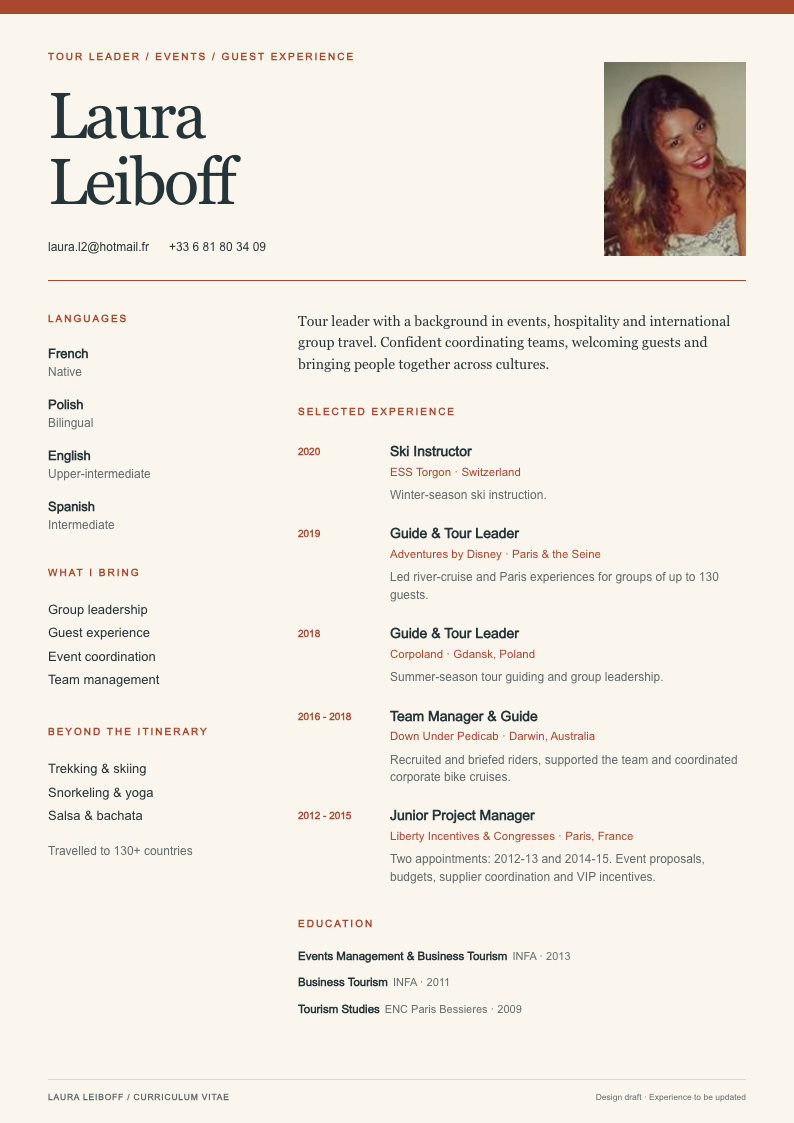
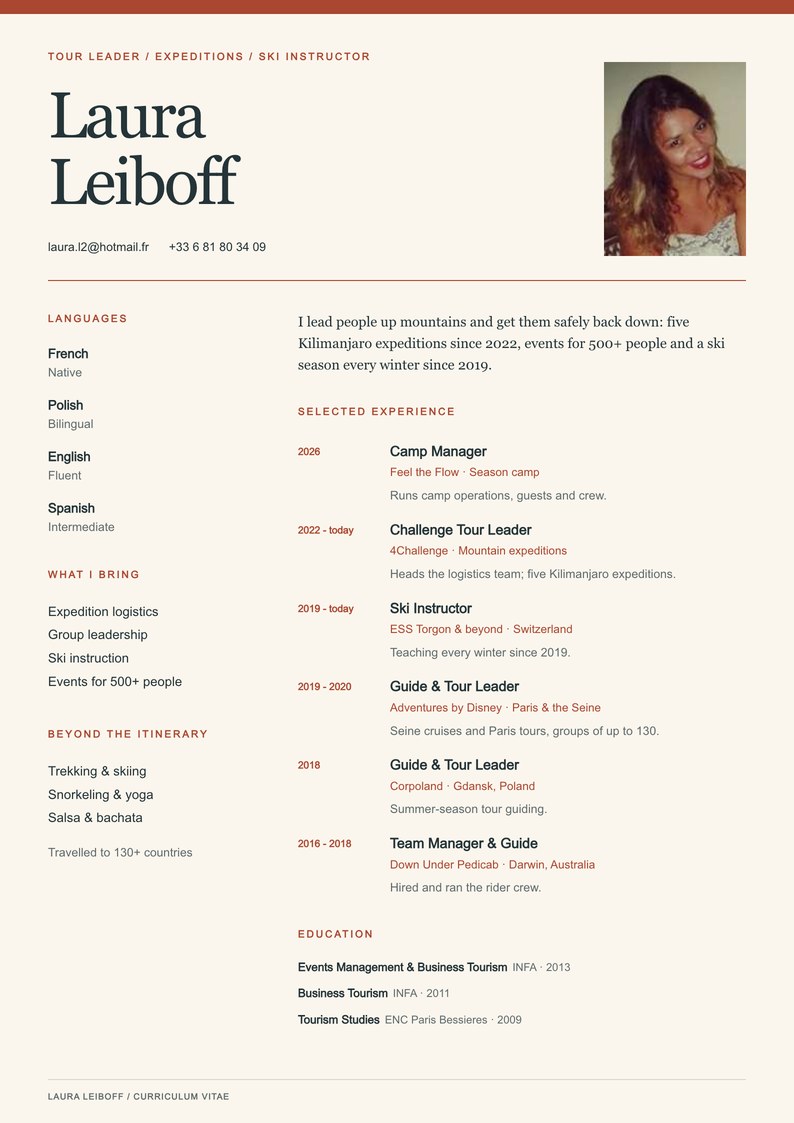
Align CV content across all designs and add print toolbar
Camp manager is now Feel the Flow and ski instruction runs 2019 to today,
in every design. GPT designs pick up the same jobs (4Challenge, Feel the
Flow; pre-2016 roles dropped) with tighter spacing to stay on one A4 page.
Claude designs get the back-link + Print / PDF toolbar. Gallery loses the
Codex/Claude framing and draft notes, and all eight previews are refreshed.

diff --git a/index.html b/index.html
@@ -1,8 +1,8 @@
-<!doctype html><html lang="en"><head><meta charset="utf-8"><meta name="viewport" content="width=device-width,initial-scale=1"><title>Laura / CV design collection</title><style>
+<!doctype html><html lang="en"><head><meta charset="utf-8"><meta name="viewport" content="width=device-width,initial-scale=1"><title>Laura Leiboff / CV designs</title><style>
 *{box-sizing:border-box}body{margin:0;background:#f5f3ef;color:#252e31;font-family:Arial,sans-serif}main{max-width:1220px;margin:auto;padding:55px 40px 60px}.kicker{font-size:11px;letter-spacing:2px;text-transform:uppercase;color:#817163;font-weight:700}header{display:flex;justify-content:space-between;align-items:flex-end;gap:40px;margin:18px 0 42px}h1{font-family:Georgia,serif;font-size:57px;font-weight:400;letter-spacing:-2px;margin:0}header p{max-width:330px;font-size:14px;line-height:1.65;color:#606967;margin:0}.grid{display:grid;grid-template-columns:repeat(2,minmax(0,1fr));gap:38px 28px}.card{text-decoration:none;color:inherit;display:block}.preview{height:490px;overflow:hidden;border-radius:12px;display:flex;align-items:flex-start;justify-content:center;padding-top:25px;background:var(--bg);transition:transform .2s,box-shadow .2s}.preview img{width:322px;box-shadow:0 4px 20px #0002}.card:hover .preview{transform:translateY(-4px);box-shadow:0 12px 30px #3331}.card:focus-visible{outline:3px solid #244ed8;outline-offset:7px}.caption{display:flex;align-items:flex-start;gap:14px;margin-top:19px}.num{font-size:11px;color:#8a8d87;padding-top:5px}h3{font-size:19px;margin:0 0 7px;font-weight:600;letter-spacing:-.4px}.caption p{font-size:12px;color:#727872;margin:0;line-height:1.5}.arrow{margin-left:auto;font-size:23px}.swatches{display:flex;gap:5px;margin-top:12px}.swatches i{width:10px;height:10px;background:var(--c);border-radius:50%}.note{margin-top:46px;padding-top:20px;border-top:1px solid #dedfd7;font-size:12px;line-height:1.8;color:#717871}.note code{font-size:11px;background:#eae8e1;padding:2px 5px;border-radius:3px}@media(max-width:720px){main{padding:32px 20px}header{display:block}h1{font-size:44px}header p{margin-top:20px}.grid{grid-template-columns:1fr}.preview{height:460px}.preview img{width:300px}}
-.section-heading{display:flex;justify-content:space-between;align-items:baseline;gap:16px;margin-bottom:24px}.section-heading h2{font-family:Georgia,serif;font-size:29px;font-weight:400;margin:0;letter-spacing:-.5px}.section-heading span{font-size:12px;color:#727872}.design-section+.design-section{margin-top:64px;padding-top:36px;border-top:1px solid #dedfd7}.jump-links{display:flex;gap:10px;margin:-16px 0 36px}.jump-links a{font-size:12px;color:#39413d;text-decoration:none;border:1px solid #cfcec7;border-radius:20px;padding:9px 15px}.jump-links a:hover{background:#e9e6df}html{scroll-behavior:smooth}.design-section{scroll-margin-top:25px}.claude-preview img{height:456px;width:322px;object-fit:contain;object-position:top;background:white}@media(max-width:720px){.section-heading{display:block}.section-heading span{display:block;margin-top:8px}.claude-preview img{height:424px;width:300px}}@media(prefers-reduced-motion:reduce){html{scroll-behavior:auto}.preview{transition:none}}</style></head><body><main><div class="kicker">Laura Leiboff / CV design exploration</div><header><h1>Find her direction.</h1><p>A little color. A lot of experience.<br>Eight directions from Codex and Claude for a tour leader with a love of people and places. Open a design to see it in full.</p></header><nav class="jump-links" aria-label="Design collections"><a href="#codex">Codex designs</a><a href="#claude">Claude designs</a></nav><section class="design-section" id="codex"><div class="section-heading"><h2>Codex designs</h2><span>01–04 / Editorial, atlas, field notes & studio</span></div><div class="grid">
+.section-heading{display:flex;justify-content:space-between;align-items:baseline;gap:16px;margin-bottom:24px}.section-heading h2{font-family:Georgia,serif;font-size:29px;font-weight:400;margin:0;letter-spacing:-.5px}.section-heading span{font-size:12px;color:#727872}.design-section+.design-section{margin-top:64px;padding-top:36px;border-top:1px solid #dedfd7}.jump-links{display:flex;gap:10px;margin:-16px 0 36px}.jump-links a{font-size:12px;color:#39413d;text-decoration:none;border:1px solid #cfcec7;border-radius:20px;padding:9px 15px}.jump-links a:hover{background:#e9e6df}html{scroll-behavior:smooth}.design-section{scroll-margin-top:25px}.claude-preview img{height:456px;width:322px;object-fit:contain;object-position:top;background:white}@media(max-width:720px){.section-heading{display:block}.section-heading span{display:block;margin-top:8px}.claude-preview img{height:424px;width:300px}}@media(prefers-reduced-motion:reduce){html{scroll-behavior:auto}.preview{transition:none}}</style></head><body><main><div class="kicker">Laura Leiboff / Curriculum vitae</div><header><h1>One CV, eight looks.</h1><p>Tour leader, mountain expedition guide and ski instructor. Open any design to view it full size or save it as a PDF.</p></header><section class="design-section"><div class="grid">
 <a class="card" href="01-editorial.html"><div class="preview" style="--bg:#e9d7c9"><img src="assets/01-editorial.png" alt="Preview of terracotta editorial CV"></div><div class="caption"><span class="num">01</span><div><h3>Terracotta editorial</h3><p>Warm, personal and a little magazine-like.</p><div class="swatches"><i style="--c:#a94730"></i><i style="--c:#fbf6ed"></i><i style="--c:#243438"></i></div></div><span class="arrow">↗</span></div></a>
 <a class="card" href="02-atlas.html"><div class="preview" style="--bg:#dce3f6"><img src="assets/02-atlas.png" alt="Preview of cobalt atlas CV"></div><div class="caption"><span class="num">02</span><div><h3>Cobalt atlas</h3><p>Confident type, bright blue and a clear experience timeline.</p><div class="swatches"><i style="--c:#244ed8"></i><i style="--c:#f5d44a"></i><i style="--c:#fff"></i></div></div><span class="arrow">↗</span></div></a>
 <a class="card" href="03-field-notes.html"><div class="preview" style="--bg:#d9e0d3"><img src="assets/03-field-notes.png" alt="Preview of forest field notes CV"></div><div class="caption"><span class="num">03</span><div><h3>Forest field notes</h3><p>Grounded, outdoorsy and quietly adventurous.</p><div class="swatches"><i style="--c:#295244"></i><i style="--c:#dfebaa"></i><i style="--c:#f9f8f0"></i></div></div><span class="arrow">↗</span></div></a>
 <a class="card" href="04-studio.html"><div class="preview" style="--bg:#e6dded"><img src="assets/04-studio.png" alt="Preview of lilac studio CV"></div><div class="caption"><span class="num">04</span><div><h3>Lilac studio</h3><p>Friendly color blocks with a modern, playful rhythm.</p><div class="swatches"><i style="--c:#5a40a1"></i><i style="--c:#eae3f7"></i><i style="--c:#f8ccad"></i></div></div><span class="arrow">↗</span></div></a>
-</div></section><section class="design-section" id="claude"><div class="section-heading"><h2>Claude designs</h2><span>01–04 / Summit, passport, riso & piste map</span></div><div class="grid"><a class="card" href="claude/1-summit.html"><div class="preview claude-preview" style="--bg:#dce0ed"><img src="assets/claude-1-summit.png" alt="Preview of Claude’s Summit CV design" loading="lazy"></div><div class="caption"><span class="num">01</span><div><h3>Summit</h3><p>A sunrise climb through her career.</p><div class="swatches"><i style="--c:#1B2250"></i><i style="--c:#FF6B35"></i><i style="--c:#F6D55C"></i></div></div><span class="arrow">↗</span></div></a><a class="card" href="claude/2-passport.html"><div class="preview claude-preview" style="--bg:#e6d8dc"><img src="assets/claude-2-passport.png" alt="Preview of Claude’s Passport CV design" loading="lazy"></div><div class="caption"><span class="num">02</span><div><h3>Passport</h3><p>A passport-inspired layout with stamped experience.</p><div class="swatches"><i style="--c:#7A1F3D"></i><i style="--c:#F2E9D8"></i><i style="--c:#2B716B"></i></div></div><span class="arrow">↗</span></div></a><a class="card" href="claude/3-riso.html"><div class="preview claude-preview" style="--bg:#f3d9e7"><img src="assets/claude-3-riso.png" alt="Preview of Claude’s Riso CV design" loading="lazy"></div><div class="caption"><span class="num">03</span><div><h3>Riso</h3><p>Bold pink, blue and yellow with a printed-poster feel.</p><div class="swatches"><i style="--c:#FF48B0"></i><i style="--c:#2463EB"></i><i style="--c:#FFE34D"></i></div></div><span class="arrow">↗</span></div></a><a class="card" href="claude/4-piste.html"><div class="preview claude-preview" style="--bg:#dae6e9"><img src="assets/claude-4-piste.png" alt="Preview of Claude’s Piste map CV design" loading="lazy"></div><div class="caption"><span class="num">04</span><div><h3>Piste map</h3><p>A ski-map layout with experience marked as numbered runs.</p><div class="swatches"><i style="--c:#E53935"></i><i style="--c:#1B2250"></i><i style="--c:#45A59B"></i></div></div><span class="arrow">↗</span></div></a></div></section><p class="note">Working design drafts. Open any version to explore the full layout. Copy varies between collections and is still being updated.</p></main></body></html>
+<a class="card" href="claude/1-summit.html"><div class="preview claude-preview" style="--bg:#dce0ed"><img src="assets/claude-1-summit.png" alt="Preview of Summit CV design" loading="lazy"></div><div class="caption"><span class="num">05</span><div><h3>Summit</h3><p>A sunrise climb through her career.</p><div class="swatches"><i style="--c:#1B2250"></i><i style="--c:#FF6B35"></i><i style="--c:#F6D55C"></i></div></div><span class="arrow">↗</span></div></a><a class="card" href="claude/2-passport.html"><div class="preview claude-preview" style="--bg:#e6d8dc"><img src="assets/claude-2-passport.png" alt="Preview of Passport CV design" loading="lazy"></div><div class="caption"><span class="num">06</span><div><h3>Passport</h3><p>A passport-inspired layout with stamped experience.</p><div class="swatches"><i style="--c:#7A1F3D"></i><i style="--c:#F2E9D8"></i><i style="--c:#2B716B"></i></div></div><span class="arrow">↗</span></div></a><a class="card" href="claude/3-riso.html"><div class="preview claude-preview" style="--bg:#f3d9e7"><img src="assets/claude-3-riso.png" alt="Preview of Riso CV design" loading="lazy"></div><div class="caption"><span class="num">07</span><div><h3>Riso</h3><p>Bold pink, blue and yellow with a printed-poster feel.</p><div class="swatches"><i style="--c:#FF48B0"></i><i style="--c:#2463EB"></i><i style="--c:#FFE34D"></i></div></div><span class="arrow">↗</span></div></a><a class="card" href="claude/4-piste.html"><div class="preview claude-preview" style="--bg:#dae6e9"><img src="assets/claude-4-piste.png" alt="Preview of Piste map CV design" loading="lazy"></div><div class="caption"><span class="num">08</span><div><h3>Piste map</h3><p>A ski-map layout with experience marked as numbered runs.</p><div class="swatches"><i style="--c:#E53935"></i><i style="--c:#1B2250"></i><i style="--c:#45A59B"></i></div></div><span class="arrow">↗</span></div></a></div></section></main></body></html>

diff --git a/cv.js b/cv.js
@@ -13,13 +13,13 @@ const education = () => `<section class="education">${heading('Education')}<div>
 const jobs = () => `<section class="experience">${heading('Selected experience')}<div class="jobs">${d.jobs.map((j,i)=>`<article class="job"><div class="job-date"><span class="job-number">0${i+1}</span>${esc(j.date)}</div><div class="job-copy"><h3>${esc(j.title)}</h3><p class="company">${esc(j.company)} <span>· ${esc(j.place)}</span></p><p class="description">${esc(j.description)}</p></div></article>`).join('')}</div></section>`;
 const name = () => `<h1><span>${esc(d.firstName)}</span> <span>${esc(d.lastName)}</span></h1>`;
 const title = () => `<p class="role">${esc(d.title)}</p>`;
-const footer = () => `<footer><span>Laura Leiboff / Curriculum vitae</span><span>Design draft · Experience to be updated</span></footer>`;
+const footer = () => `<footer><span>Laura Leiboff / Curriculum vitae</span></footer>`;
 const globe = `<svg class="globe" viewBox="0 0 240 240" fill="none" aria-hidden="true"><g stroke="currentColor" stroke-width="1"><circle cx="120" cy="120" r="108"/><ellipse cx="120" cy="120" rx="65" ry="108"/><ellipse cx="120" cy="120" rx="26" ry="108"/><ellipse cx="120" cy="120" rx="108" ry="40"/><ellipse cx="120" cy="120" rx="108" ry="78"/><path d="M12 120h216M120 12v216"/></g></svg>`;
 const route = `<svg class="route" viewBox="0 0 180 180" fill="none" aria-hidden="true"><path d="M30 148C-14 72 160 153 136 43" stroke="currentColor" stroke-width="3" stroke-linecap="round" stroke-dasharray="4 8"/><circle cx="30" cy="148" r="8" fill="currentColor"/><path d="M136 17c-15 0-24 10-24 24 0 18 24 41 24 41s24-23 24-41c0-14-9-24-24-24Z" fill="currentColor"/><circle cx="136" cy="41" r="8" fill="var(--soft)"/></svg>`;
 let html;
-if(variant==='editorial') html = `<header><div class="eyebrow">Tour leader / Events / Guest experience</div>${name()}${portrait()}${contact()}</header><div class="main-grid"><aside>${languages()}${strengths()}${interests()}${stat()}</aside><main>${intro()}${jobs()}${education()}</main></div>${footer()}`;
+if(variant==='editorial') html = `<header><div class="eyebrow">Tour leader / Expeditions / Ski instructor</div>${name()}${portrait()}${contact()}</header><div class="main-grid"><aside>${languages()}${strengths()}${interests()}${stat()}</aside><main>${intro()}${jobs()}${education()}</main></div>${footer()}`;
 if(variant==='atlas') html = `<header><div class="eyebrow">People. Places. Possibilities.</div>${name()}${title()}${contact()}${globe}</header><main>${intro()}${stat()}${jobs()}<div class="bottom-grid">${education()}${languages()}</div></main>${footer()}`;
 if(variant==='field') html = `<aside>${portrait()}${contact()}${languages()}${interests()}${stat()}<div class="sidebar-signoff">Curious by nature.</div></aside><main><header>${name()}${title()}</header>${intro()}${jobs()}${education()}</main>${footer()}`;
-if(variant==='studio') html = `<header><div class="eyebrow">Tour leader / Events / Hospitality</div>${name()}${contact()}${route}</header><div class="intro-grid"><div class="intro-card">${heading('A people person, worldwide')}${intro()}${stat()}</div></div><main>${jobs()}<div class="bottom-grid">${languages()}${education()}</div></main>${footer()}`;
+if(variant==='studio') html = `<header><div class="eyebrow">Tour leader / Expeditions / Ski instructor</div>${name()}${contact()}${route}</header><div class="intro-grid"><div class="intro-card">${heading('Up mountains, around the world')}${intro()}${stat()}</div></div><main>${jobs()}<div class="bottom-grid">${languages()}${education()}</div></main>${footer()}`;
 document.querySelector('.sheet').innerHTML=html;
 document.querySelector('[data-print]').addEventListener('click',()=>window.print());

diff --git a/content.js b/content.js
@@ -1,15 +1,15 @@
 // Edit this file to update the copy across all four designs.
 window.CV = {
   name: 'Laura Leiboff', firstName: 'Laura', lastName: 'Leiboff',
-  title: 'Tour leader & event coordinator',
+  title: 'Tour leader & mountain expedition guide',
   email: 'laura.l2@hotmail.fr', phone: '+33 6 81 80 34 09',
   countries: '130+',
-  intro: 'Tour leader with a background in events, hospitality and international group travel. Confident coordinating teams, welcoming guests and bringing people together across cultures.',
+  intro: 'I lead people up mountains and get them safely back down: five Kilimanjaro expeditions since 2022, events for 500+ people and a ski season every winter since 2019.',
   languages: [
     ['French', 'Native'], ['Polish', 'Bilingual'],
-    ['English', 'Upper-intermediate'], ['Spanish', 'Intermediate']
+    ['English', 'Fluent'], ['Spanish', 'Intermediate']
   ],
-  strengths: ['Group leadership', 'Guest experience', 'Event coordination', 'Team management'],
+  strengths: ['Expedition logistics', 'Group leadership', 'Ski instruction', 'Events for 500+ people'],
   interests: ['Trekking & skiing', 'Snorkeling & yoga', 'Salsa & bachata'],
   education: [
     ['Events Management & Business Tourism', 'INFA', '2013'],
@@ -17,10 +17,11 @@ window.CV = {
     ['Tourism Studies', 'ENC Paris Bessieres', '2009']
   ],
   jobs: [
-    {date:'2020', title:'Ski Instructor', company:'ESS Torgon', place:'Switzerland', description:'Winter-season ski instruction.'},
-    {date:'2019', title:'Guide & Tour Leader', company:'Adventures by Disney', place:'Paris & the Seine', description:'Led river-cruise and Paris experiences for groups of up to 130 guests.'},
-    {date:'2018', title:'Guide & Tour Leader', company:'Corpoland', place:'Gdansk, Poland', description:'Summer-season tour guiding and group leadership.'},
-    {date:'2016 - 2018', title:'Team Manager & Guide', company:'Down Under Pedicab', place:'Darwin, Australia', description:'Recruited and briefed riders, supported the team and coordinated corporate bike cruises.'},
-    {date:'2012 - 2015', title:'Junior Project Manager', company:'Liberty Incentives & Congresses', place:'Paris, France', description:'Two appointments: 2012-13 and 2014-15. Event proposals, budgets, supplier coordination and VIP incentives.'}
+    {date:'2026', title:'Camp Manager', company:'Feel the Flow', place:'Season camp', description:'Runs camp operations, guests and crew.'},
+    {date:'2022 - today', title:'Challenge Tour Leader', company:'4Challenge', place:'Mountain expeditions', description:'Heads the logistics team; five Kilimanjaro expeditions.'},
+    {date:'2019 - today', title:'Ski Instructor', company:'ESS Torgon & beyond', place:'Switzerland', description:'Teaching every winter since 2019.'},
+    {date:'2019 - 2020', title:'Guide & Tour Leader', company:'Adventures by Disney', place:'Paris & the Seine', description:'Seine cruises and Paris tours, groups of up to 130.'},
+    {date:'2018', title:'Guide & Tour Leader', company:'Corpoland', place:'Gdansk, Poland', description:'Summer-season tour guiding.'},
+    {date:'2016 - 2018', title:'Team Manager & Guide', company:'Down Under Pedicab', place:'Darwin, Australia', description:'Hired and ran the rider crew.'}
   ]
 };

diff --git a/claude/4-piste.html b/claude/4-piste.html
@@ -107,9 +107,32 @@
     .page { box-shadow: none; }
     * { -webkit-print-color-adjust: exact; print-color-adjust: exact; }
   }
+  /* Screen-only toolbar: back to gallery + print */
+  .cv-toolbar {
+    width: 210mm; max-width: 100%;
+    margin: 0 auto 14px;
+    display: flex; align-items: center; justify-content: space-between; gap: 16px;
+    font: 500 12px/1.4 system-ui, sans-serif;
+    color: #172033;
+  }
+  .cv-toolbar a { color: inherit; font-weight: 700; text-decoration: none; }
+  .cv-toolbar a:hover { text-decoration: underline; }
+  .cv-toolbar div { display: flex; align-items: center; gap: 14px; }
+  .cv-toolbar button {
+    background: #E53935; color: #E53935#172033; border: 0; border-radius: 7px;
+    padding: 9px 14px; font: inherit; font-weight: 700; cursor: pointer;
+  }
+  .cv-toolbar button:hover { filter: brightness(1.15); }
+  .cv-toolbar :focus-visible { outline: 3px solid #FFC145; outline-offset: 3px; }
+  @media (max-width: 820px) { .cv-toolbar { margin: 0; padding: 12px 16px; } .cv-toolbar span { display: none; } }
+  @media print { .cv-toolbar { display: none; } }
 </style>
 </head>
 <body>
+<nav class="cv-toolbar" aria-label="Design controls">
+  <a href="../index.html">← All designs</a>
+  <div><span>08 / Piste map</span><button type="button" onclick="window.print()">Print / PDF</button></div>
+</nav>
 <main class="page">
   <header class="banner">
     <img src="photo.jpg" alt="Laura Leiboff">
@@ -186,9 +209,9 @@
         <li><span class="mark r">1</span><div><h3>Team manager &amp; guide</h3><div class="meta">Down Under Pedicab, Darwin, Australia — 2016 to 2018</div><p>Hired and ran the rider crew.</p></div></li>
         <li><span class="mark g">2</span><div><h3>Guide &amp; tour leader</h3><div class="meta">Corpoland, Gdańsk, Poland — 2018</div></div></li>
         <li><span class="mark g">3</span><div><h3>Guide &amp; tour leader</h3><div class="meta">Adventures by Disney, Paris — 2019 to 2020</div><p>Seine river cruises and city tours, groups of up to 130.</p></div></li>
-        <li><span class="mark b">4</span><div><h3>Ski instructor</h3><div class="meta">ESS Torgon, Switzerland — winter 2020</div></div></li>
+        <li><span class="mark b">4</span><div><h3>Ski instructor</h3><div class="meta">Winter seasons since 2019, starting at ESS Torgon, Switzerland</div></div></li>
         <li><span class="mark k">5</span><div><h3>Challenge tour leader</h3><div class="meta">4Challenge mountain expeditions — 2022 to today</div><p>Leads the logistics team; five Kilimanjaro tours and counting.</p></div></li>
-        <li><span class="mark r">6</span><div><h3>Camp manager &amp; ski instructor</h3><div class="meta">2026 season</div><p>Runs camp operations and teaches on the slopes.</p></div></li>
+        <li><span class="mark r">6</span><div><h3>Camp manager</h3><div class="meta">Feel the Flow — 2026</div><p>Runs camp operations and looks after guests and crew.</p></div></li>
       </ol>
     </section>
 

diff --git a/claude/3-riso.html b/claude/3-riso.html
@@ -127,9 +127,32 @@
     .page { box-shadow: none; }
     * { -webkit-print-color-adjust: exact; print-color-adjust: exact; }
   }
+  /* Screen-only toolbar: back to gallery + print */
+  .cv-toolbar {
+    width: 210mm; max-width: 100%;
+    margin: 0 auto 14px;
+    display: flex; align-items: center; justify-content: space-between; gap: 16px;
+    font: 500 12px/1.4 system-ui, sans-serif;
+    color: #24346E;
+  }
+  .cv-toolbar a { color: inherit; font-weight: 700; text-decoration: none; }
+  .cv-toolbar a:hover { text-decoration: underline; }
+  .cv-toolbar div { display: flex; align-items: center; gap: 14px; }
+  .cv-toolbar button {
+    background: #FF48B0; color: #FF48B0#24346E; border: 0; border-radius: 7px;
+    padding: 9px 14px; font: inherit; font-weight: 700; cursor: pointer;
+  }
+  .cv-toolbar button:hover { filter: brightness(1.15); }
+  .cv-toolbar :focus-visible { outline: 3px solid #FFC145; outline-offset: 3px; }
+  @media (max-width: 820px) { .cv-toolbar { margin: 0; padding: 12px 16px; } .cv-toolbar span { display: none; } }
+  @media print { .cv-toolbar { display: none; } }
 </style>
 </head>
 <body>
+<nav class="cv-toolbar" aria-label="Design controls">
+  <a href="../index.html">← All designs</a>
+  <div><span>07 / Riso</span><button type="button" onclick="window.print()">Print / PDF</button></div>
+</nav>
 <main class="page">
   <div class="dots y" aria-hidden="true"></div>
   <div class="dots p" aria-hidden="true"></div>
@@ -147,9 +170,9 @@
     <section>
       <h2>Work</h2>
       <ol class="jobs" reversed>
-        <li><div class="yr">2026</div><div><h3>Camp manager &amp; ski instructor</h3><p>Runs camp operations and teaches on the slopes through the season.</p></div></li>
+        <li><div class="yr">2026</div><div><h3>Camp manager <span class="at">Feel the Flow</span></h3><p>Runs camp operations and looks after guests and crew.</p></div></li>
         <li><div class="yr">2022 —</div><div><h3>Challenge tour leader <span class="at">4Challenge</span></h3><p>Mountain expeditions. Leads the logistics team; five Kilimanjaro tours so far.</p></div></li>
-        <li><div class="yr">2020</div><div><h3>Ski instructor <span class="at">ESS Torgon</span></h3><p>Winter season in the Swiss Alps.</p></div></li>
+        <li><div class="yr">2019 —</div><div><h3>Ski instructor <span class="at">ESS Torgon &amp; beyond</span></h3><p>Teaching every winter since 2019.</p></div></li>
         <li><div class="yr">2019</div><div><h3>Guide &amp; tour leader <span class="at">Adventures by Disney</span></h3><p>Seine river cruises and Paris, groups of up to 130.</p></div></li>
         <li><div class="yr">2018</div><div><h3>Guide &amp; tour leader <span class="at">Corpoland</span></h3><p>Gdańsk, Poland.</p></div></li>
         <li><div class="yr">2016</div><div><h3>Team manager &amp; guide <span class="at">Down Under Pedicab</span></h3><p>Darwin, Australia. Hired and ran the rider crew.</p></div></li>

diff --git a/claude/1-summit.html b/claude/1-summit.html
@@ -139,9 +139,32 @@
     .page { box-shadow: none; }
     * { -webkit-print-color-adjust: exact; print-color-adjust: exact; }
   }
+  /* Screen-only toolbar: back to gallery + print */
+  .cv-toolbar {
+    width: 210mm; max-width: 100%;
+    margin: 0 auto 14px;
+    display: flex; align-items: center; justify-content: space-between; gap: 16px;
+    font: 500 12px/1.4 system-ui, sans-serif;
+    color: #3a4150;
+  }
+  .cv-toolbar a { color: inherit; font-weight: 700; text-decoration: none; }
+  .cv-toolbar a:hover { text-decoration: underline; }
+  .cv-toolbar div { display: flex; align-items: center; gap: 14px; }
+  .cv-toolbar button {
+    background: #1B2250; color: #1B2250#3a4150; border: 0; border-radius: 7px;
+    padding: 9px 14px; font: inherit; font-weight: 700; cursor: pointer;
+  }
+  .cv-toolbar button:hover { filter: brightness(1.15); }
+  .cv-toolbar :focus-visible { outline: 3px solid #FFC145; outline-offset: 3px; }
+  @media (max-width: 820px) { .cv-toolbar { margin: 0; padding: 12px 16px; } .cv-toolbar span { display: none; } }
+  @media print { .cv-toolbar { display: none; } }
 </style>
 </head>
 <body>
+<nav class="cv-toolbar" aria-label="Design controls">
+  <a href="../index.html">← All designs</a>
+  <div><span>05 / Summit</span><button type="button" onclick="window.print()">Print / PDF</button></div>
+</nav>
 <main class="page">
   <header class="sky">
     <svg class="stars" viewBox="0 0 800 400" preserveAspectRatio="none" aria-hidden="true">
@@ -194,8 +217,8 @@
       <ol class="route" reversed>
         <li class="now">
           <div class="when">2026</div>
-          <div class="what">Camp manager &amp; ski instructor</div>
-          <p>Runs camp operations and teaches on the slopes all winter.</p>
+          <div class="what">Camp manager</div>
+          <div class="where">Feel the Flow</div>
         </li>
         <li>
           <div class="when">2022 — today</div>
@@ -204,9 +227,9 @@
           <p>Leads the logistics team for high-altitude trips, including five Kilimanjaro expeditions. </p>
         </li>
         <li>
-          <div class="when">Winter 2020</div>
+          <div class="when">2019 — today</div>
           <div class="what">Ski instructor</div>
-          <div class="where">ESS Torgon, Switzerland</div>
+          <div class="where">Winter seasons, starting at ESS Torgon, Switzerland</div>
         </li>
         <li>
           <div class="when">2019 — 2020</div>

diff --git a/claude/2-passport.html b/claude/2-passport.html
@@ -145,9 +145,32 @@
     .page { box-shadow: none; }
     * { -webkit-print-color-adjust: exact; print-color-adjust: exact; }
   }
+  /* Screen-only toolbar: back to gallery + print */
+  .cv-toolbar {
+    width: 210mm; max-width: 100%;
+    margin: 0 auto 14px;
+    display: flex; align-items: center; justify-content: space-between; gap: 16px;
+    font: 500 12px/1.4 system-ui, sans-serif;
+    color: #fff;
+  }
+  .cv-toolbar a { color: inherit; font-weight: 700; text-decoration: none; }
+  .cv-toolbar a:hover { text-decoration: underline; }
+  .cv-toolbar div { display: flex; align-items: center; gap: 14px; }
+  .cv-toolbar button {
+    background: #fff; color: #fff#fff; border: 0; border-radius: 7px;
+    padding: 9px 14px; font: inherit; font-weight: 700; cursor: pointer;
+  }
+  .cv-toolbar button:hover { filter: brightness(1.15); }
+  .cv-toolbar :focus-visible { outline: 3px solid #FFC145; outline-offset: 3px; }
+  @media (max-width: 820px) { .cv-toolbar { margin: 0; padding: 12px 16px; } .cv-toolbar span { display: none; } }
+  @media print { .cv-toolbar { display: none; } }
 </style>
 </head>
 <body>
+<nav class="cv-toolbar" aria-label="Design controls">
+  <a href="../index.html">← All designs</a>
+  <div><span>06 / Passport</span><button type="button" onclick="window.print()">Print / PDF</button></div>
+</nav>
 <main class="page">
   <section class="data">
     <div class="doc-title"><strong>Curriculum vitae</strong><span>Passport / Passeport / Paszport</span></div>
@@ -168,9 +191,9 @@
   <h2>Entries &amp; exits</h2>
   <div class="stamps">
     <div class="stamp s1">
-      <div class="t">Camp manager<br>+ ski instructor</div>
+      <div class="t">Camp manager</div>
       <div class="d">2026</div>
-      <p>Runs camp operations and teaches on the slopes all season.</p>
+      <p>Feel the Flow. Runs camp operations all season.</p>
     </div>
     <div class="stamp s2">
       <div class="t">Challenge tour leader</div>
@@ -184,8 +207,8 @@
     </div>
     <div class="stamp s4">
       <div class="t">Ski instructor</div>
-      <div class="d">Winter 2020</div>
-      <p>ESS Torgon, Switzerland</p>
+      <div class="d">2019 → today</div>
+      <p>Winter seasons, starting at ESS Torgon, Switzerland</p>
     </div>
     <div class="stamp s5">
       <div class="t">Guide &amp; tour leader</div>

diff --git a/01-editorial.html b/01-editorial.html
@@ -1,3 +1,3 @@
 <!doctype html>
 <html lang="en"><head><meta charset="utf-8"><meta name="viewport" content="width=device-width,initial-scale=1"><title>Laura Leiboff · Terracotta editorial</title><link rel="stylesheet" href="styles.css"></head>
-<body class="editorial" data-design="editorial"><nav class="toolbar" aria-label="Design controls"><a href="index.html">← All four designs</a><div><span class="design-label">01 / Terracotta editorial</span><button data-print>Print / PDF</button></div></nav><div class="sheet"></div><script src="content.js"></script><script src="cv.js"></script></body></html>
+<body class="editorial" data-design="editorial"><nav class="toolbar" aria-label="Design controls"><a href="index.html">← All designs</a><div><span class="design-label">01 / Terracotta editorial</span><button data-print>Print / PDF</button></div></nav><div class="sheet"></div><script src="content.js"></script><script src="cv.js"></script></body></html>

diff --git a/03-field-notes.html b/03-field-notes.html
@@ -1,3 +1,3 @@
 <!doctype html>
 <html lang="en"><head><meta charset="utf-8"><meta name="viewport" content="width=device-width,initial-scale=1"><title>Laura Leiboff · Forest field notes</title><link rel="stylesheet" href="styles.css"></head>
-<body class="field" data-design="field"><nav class="toolbar" aria-label="Design controls"><a href="index.html">← All four designs</a><div><span class="design-label">03 / Forest field notes</span><button data-print>Print / PDF</button></div></nav><div class="sheet"></div><script src="content.js"></script><script src="cv.js"></script></body></html>
+<body class="field" data-design="field"><nav class="toolbar" aria-label="Design controls"><a href="index.html">← All designs</a><div><span class="design-label">03 / Forest field notes</span><button data-print>Print / PDF</button></div></nav><div class="sheet"></div><script src="content.js"></script><script src="cv.js"></script></body></html>

diff --git a/04-studio.html b/04-studio.html
@@ -1,3 +1,3 @@
 <!doctype html>
 <html lang="en"><head><meta charset="utf-8"><meta name="viewport" content="width=device-width,initial-scale=1"><title>Laura Leiboff · Lilac studio</title><link rel="stylesheet" href="styles.css"></head>
-<body class="studio" data-design="studio"><nav class="toolbar" aria-label="Design controls"><a href="index.html">← All four designs</a><div><span class="design-label">04 / Lilac studio</span><button data-print>Print / PDF</button></div></nav><div class="sheet"></div><script src="content.js"></script><script src="cv.js"></script></body></html>
+<body class="studio" data-design="studio"><nav class="toolbar" aria-label="Design controls"><a href="index.html">← All designs</a><div><span class="design-label">04 / Lilac studio</span><button data-print>Print / PDF</button></div></nav><div class="sheet"></div><script src="content.js"></script><script src="cv.js"></script></body></html>

diff --git a/02-atlas.html b/02-atlas.html
@@ -1,3 +1,3 @@
 <!doctype html>
 <html lang="en"><head><meta charset="utf-8"><meta name="viewport" content="width=device-width,initial-scale=1"><title>Laura Leiboff · Cobalt atlas</title><link rel="stylesheet" href="styles.css"></head>
-<body class="atlas" data-design="atlas"><nav class="toolbar" aria-label="Design controls"><a href="index.html">← All four designs</a><div><span class="design-label">02 / Cobalt atlas</span><button data-print>Print / PDF</button></div></nav><div class="sheet"></div><script src="content.js"></script><script src="cv.js"></script></body></html>
+<body class="atlas" data-design="atlas"><nav class="toolbar" aria-label="Design controls"><a href="index.html">← All designs</a><div><span class="design-label">02 / Cobalt atlas</span><button data-print>Print / PDF</button></div></nav><div class="sheet"></div><script src="content.js"></script><script src="cv.js"></script></body></html>

diff --git a/styles.css b/styles.css
@@ -22,3 +22,7 @@
 .field .travel-note{margin-top:15px;font-size:11.5px;color:#d3dfd7}
 .studio .intro-grid{display:block}.studio .travel-note{margin-top:12px}
 .atlas .sheet header{height:289px}.atlas .globe{width:205px;top:37px;right:45px}
+/* Six-job layouts: tighter rhythm so every design stays on one A4 page. */
+.editorial .job+.job{margin-top:17px}
+.atlas .sheet header{height:290px}.atlas main{padding-top:22px}.atlas .intro{margin-bottom:20px}.atlas .job+.job{margin-top:8px}.atlas .job:after{bottom:-8px}.atlas .bottom-grid{margin-top:22px}
+.studio header{min-height:180px}.studio .intro-grid{margin-top:16px}.studio .experience{margin-top:20px}.studio .job+.job{margin-top:8px}.studio .job-copy{padding-bottom:7px}
